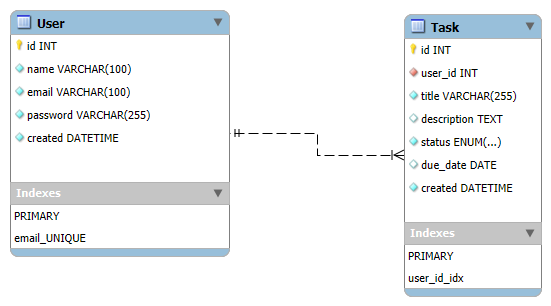
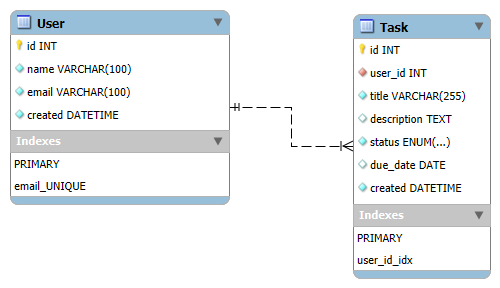
Actualiza MER eliminando password, ajusta schema.sql y README para Nivel 1

Changed region(s): [[0.0, 0.0312, 0.48, 0.8438], [0.57, 0.0312, 0.99, 1.0]]

diff --git a/README_MER.md b/README_MER.md
@@ -28,7 +28,6 @@ Atributos:
 - `id`: Número entero, clave primaria, autoincremental.
 - `name`: Cadena de texto, máximo 100 caracteres, obligatorio.
 - `email`: Cadena de texto, máximo 100 caracteres, obligatorio y único.
-- `password`: Cadena de texto, máximo 255 caracteres, obligatorio.
 - `created`: Fecha y hora de creación del registro, obligatorio.
 
 Decisión:  